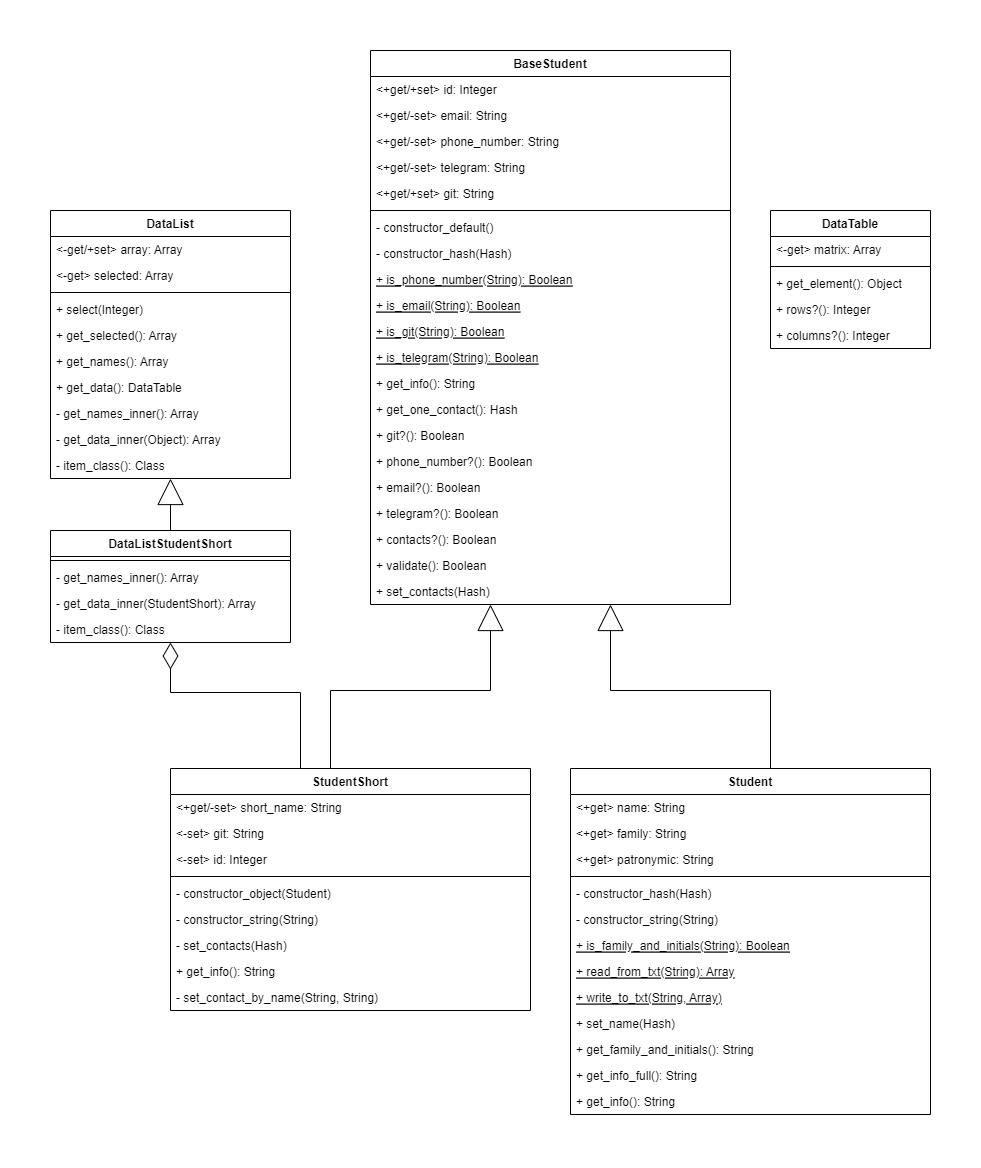
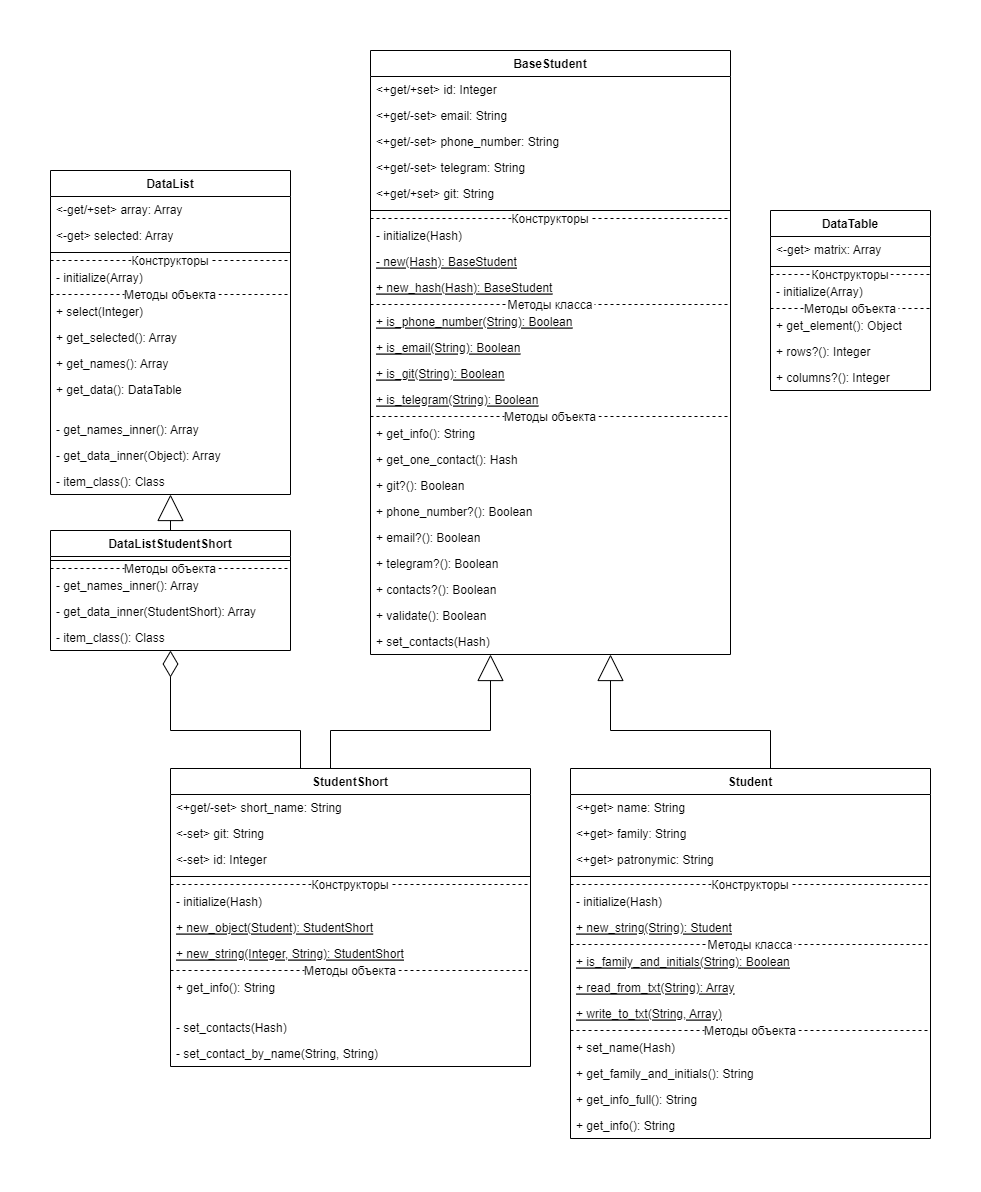
Привел некоторый код в порядок
Поправлен "DataList". "get_selected" возвращает теперь id объектов, а не их номер в списке. Поправлены "..._inner" методы в дочернем классе.

Заприватил "new" в "BaseStudent", чтобы везде можно было использовать только собственные методы в качестве методов создания объекта (приведенные к виду "new_...").

Подобавлял в код комментарии-заголовки, чтобы понимать, где какие  методы лежат (они были и ранее, но не везде).

Поправлена диаграмма, в т.ч. добавлены разделители в разделе методов, чтобы понимать, где какие методы лежат.

diff --git a/lab2/student_short.rb b/lab2/student_short.rb
@@ -2,40 +2,33 @@ require_relative "base_student.rb"
 require_relative "student.rb"
 
 class StudentShort < BaseStudent
-	attr_reader :short_name
+	### GENERATED
+	public attr_reader :short_name
 	
-	def initialize(object:nil, hash:nil)
-		if object != nil
-			constructor_object(object)
-		elsif hash != nil
-			constructor_string(hash)
-		else
-			constructor_default()
+	### INITIALIZE
+	private
+	
+	# hash = {:id, :short_name, :git, :contact_type, :contact}
+	def initialize(hash)
+		if !Student.is_family_and_initials(hash[:short_name])
+			raise ArgumentError.new "Family and initials in wrong format."
 		end
+		self.short_name = hash[:short_name]
+		set_contact_by_name(hash[:contact_type], hash[:contact])
+		super({id:hash[:id], git:hash[:git]})
 	end
 	
 	### CONSTRUCTOR METHODS
-	private
+	public
 	
-	def constructor_object(object)
-		self.id = object.id
-		self.short_name = object.get_family_and_initials()
-		self.git = object.git
+	def self.new_object(object)
 		contact = object.get_one_contact()
-		if contact != nil
-			set_contact_by_name(contact[:type], contact[:contact])
-		end
+		return new({id:object.id, short_name:(object.get_family_and_initials()), git:object.git, contact_type:contact[:type], contact:contact[:contact]})
 	end
-	def constructor_string(hash)
-		self.id = hash[:id]
-		splitted = hash[:string].split(';')
-		if !Student.is_family_and_initials(splitted[0])
-			raise ArgumentError.new "Family and initials in wrong format."
-		end
-		self.short_name = splitted[0]
-		self.git = splitted[1]
+	def self.new_string(new_id, string)
+		splitted = string.split(';')
 		contact_splitted = splitted[2].split(':')
-		set_contact_by_name(contact_splitted[0], contact_splitted[1])
+		return new({id:new_id, short_name:splitted[0], git:splitted[1], contact_type:contact_splitted[0], contact:contact_splitted[1]})
 	end
 	
 	### OBJECT PUBLIC METHODS
@@ -51,7 +44,6 @@ class StudentShort < BaseStudent
 	end
 	
 	### OBJECT PRIVATE METHODS
-	
 	private :set_contacts, :git=, :id=
 	
 	private

diff --git a/lab2/main.rb b/lab2/main.rb
@@ -4,14 +4,16 @@ require_relative "data_table.rb"
 require_relative "data_list.rb"
 require_relative "data_list_student_short.rb"
 
-#object1 = Student.new(hash:{id:0, name:"Arbux", family:"Alebarod", patronymic:"Achekavich", phone_number:"+79189356731", email:"address@mail.sd", telegram:"@ahto_ahaha", git:"https://github.com/CyBeR_uSeR"})
+object1 = Student.new_hash({id:0, name:"Arbux", family:"Alebarod", patronymic:"Achekavich", phone_number:"+79189356731", email:"address@mail.sd", telegram:"@ahto_ahaha", git:"https://github.com/CyBeR_uSeR"})
 #object2 = Student.new(hash:{id:1, name:"Ti", family: "Prikki", patronymic:"Noitaich", email:"my_bestEmail3@cybermail.gog", git:"gitlab.com/stellAr"})
 #object3 = Student.new(hash:{id:"2", name:"lARrius", family:"VarrO", patronymic:"sToRyViCh", phone_number:79336421496, telegram:"BloodBath"})
-#object4 = Student.new(string:"3;NAME;FAMILIAR;PAPAPAPA;89882883838;;;")
+object4 = Student.new_string("3;NAME;FAMILIAR;PAPAPAPA;89882883838;;;")
 #object5 = Student.new()
 
-#object_short1 = StudentShort.new(hash:{id:5, string:"Bafyly B.T.;github.com/JJJ_rare;telegram:tigra"})
+object_short1 = StudentShort.new_string(5, "Bafyly B.T.;github.com/JJJ_rare;telegram:tigra")
+object_short2 = StudentShort.new_object(object1)
 #puts object_short1.get_info()
+#puts object_short2.get_info()
 
 #puts object1.get_info()
 #puts object2.get_info()
@@ -21,15 +23,15 @@ require_relative "data_list_student_short.rb"
 students = Student.read_from_txt("students.txt")
 students_short = []
 
-students.each { |obj| students_short.push(StudentShort.new(object:obj)) }
+students.each { |obj| students_short.push(StudentShort.new_object(obj)) }
 #students_short += [2]
 
 dlss = DataListStudentShort.new(students_short)
 
-dt = dlss.get_data()
+#dt = dlss.get_data()
 
-puts dlss.get_names()
-puts dt.get_element(1, 1)
+#puts dlss.get_names()
+#puts dt.get_element(1, 3)
 
 #Student.write_to_txt("file.txt", students)
 

diff --git a/lab2/student.rb b/lab2/student.rb
@@ -1,20 +1,13 @@
 require_relative "base_student.rb"
 
 class Student < BaseStudent
-	attr_reader :name, :family, :patronymic
+	### GENERATED
+	public attr_reader :name, :family, :patronymic
 	
-	def initialize(hash:nil, string:nil)
-		if string != nil
-			constructor_string(string)
-		else
-			super(hash)
-		end
-	end
-	
-	### CONSTRUCTOR METHODS
+	### INITIALIZE
 	private
 	
-	def constructor_hash(hash)
+	def initialize(hash)
 		#name, family and patronymic are necessary, others optional
 		if(hash[:name] == nil or hash[:family] == nil or hash[:patronymic] == nil)
 			raise ArgumentError.new "Name, family and patronymic are necessary for constructor."
@@ -23,12 +16,15 @@ class Student < BaseStudent
 		super({id:hash[:id], git:hash[:git], phone_number:hash[:phone_number], email:hash[:email], telegram:hash[:telegram]})
 	end
 	
-	def constructor_string(string)
+	### CONSTRUCTOR METHODS
+	public
+	
+	def self.new_string(string)
 		splitted = string.split(';', -1)
 		if splitted.length != 8 # we need all 8 fields, even if it empty
 			raise ArgumentError.new "Wrong string format for constructor."
 		end
-		constructor_hash({id:splitted[0], name:splitted[1], family:splitted[2], patronymic:splitted[3], phone_number:splitted[4], email:splitted[5], telegram:splitted[6], git:splitted[7]})
+		return new({id:splitted[0], name:splitted[1], family:splitted[2], patronymic:splitted[3], phone_number:splitted[4], email:splitted[5], telegram:splitted[6], git:splitted[7]})
 	end
 	
 	### OBJECT PUBLIC METHODS
@@ -88,7 +84,7 @@ class Student < BaseStudent
 	def self.read_from_txt(path)
 		objects = []
 		File.open(path, "r") do |file|
-			file.each_line { |x| objects.push(Student.new(string:x[0..-2])) }
+			file.each_line { |x| objects.push(Student.new_string(x[0..-2])) }
 		end
 		return objects
 	end

diff --git a/lab2/base_student.rb b/lab2/base_student.rb
@@ -1,27 +1,25 @@
 class BaseStudent
-	attr_reader :id, :phone_number, :email, :telegram, :git
+	### GENERATED
+	public attr_reader :id, :phone_number, :email, :telegram, :git
 	
-	def initialize(hash)
-		if hash != nil
-			constructor_hash(hash)
-		else
-			constructor_default()
-		end
-	end
-	
-	### CONSTRUCTOR METHODS
+	### INITIALIZE
 	private
 	
-	def constructor_default
-		raise ArgumentError.new "Constructor constructor needs data."
-	end
-	def constructor_hash(hash)
+	def initialize(hash)
 		if hash[:id] == nil
 			raise ArgumentError.new "Student should has id."
 		end
 		self.id = hash[:id]
 		set_contacts({phone_number:hash[:phone_number], email:hash[:email], telegram:hash[:telegram]})
 		self.git = hash[:git]
+	end
+	
+	### CONSTRUCTOR METHODS
+	private_class_method :new
+	
+	public
+	def self.new_hash(hash)
+		return new(hash)
 	end
 	
 	### OBJECT PUBLIC METHODS

diff --git a/lab2/data_list.rb b/lab2/data_list.rb
@@ -1,4 +1,10 @@
 class DataList
+	### GENERATED
+	private attr_reader :selected, :array
+	
+	### INITIALIZE
+	private
+	
 	def initialize(objects)
 		self.array = objects
 		@selected = []
@@ -17,7 +23,11 @@ class DataList
 	end
 	
 	def get_selected()
-		return self.selected
+		ids = []
+		selected.each { |item|
+			ids += [array[item].id]
+		}
+		return ids
 	end
 	
 	def get_names()
@@ -45,8 +55,6 @@ class DataList
 	
 	### OBJECT PRIVATE METHODS
 	private
-	
-	attr_reader :selected, :array, :item_class
 	
 	def get_data_inner(item)
 		return []

diff --git a/lab2/data_list_student_short.rb b/lab2/data_list_student_short.rb
@@ -3,14 +3,15 @@ require_relative "student_short.rb"
 
 class DataListStudentShort < DataList
 	
+	### OBJECT PRIVATE METHODS
 	private
 	def get_names_inner()
-		return ["Short name", "Git", "Contact type", "Contact"]
+		return ["ФИО", "Гит", "Контакт"]
 	end
 	
 	def get_data_inner(item)
 		attributes = item.get_info().split(';')[1..-1]
-		return attributes[0..-2] + attributes[-1].split(':')
+		return attributes[0..-2] + [attributes[-1].split(':')[1]]
 	end
 	
 	def item_class()

diff --git a/lab2/data_table.rb b/lab2/data_table.rb
@@ -1,4 +1,7 @@
 class DataTable
+	### INITIALIZE
+	private
+	
 	def initialize(matrix)
 		@matrix = matrix
 	end
